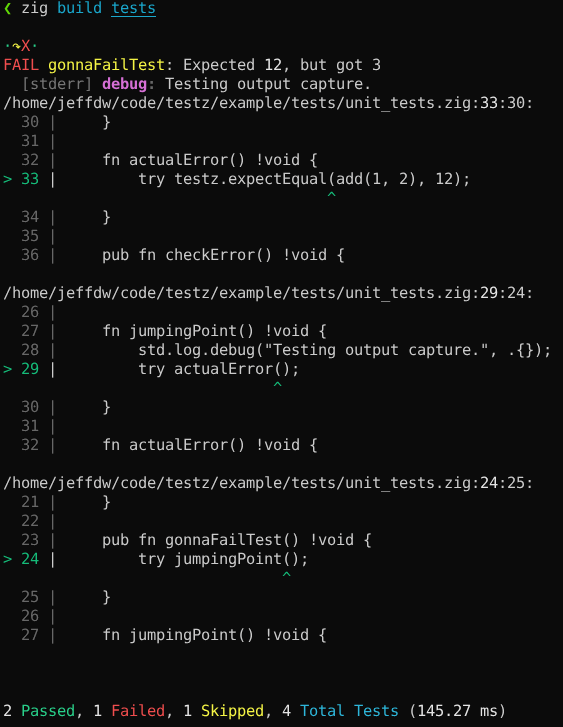
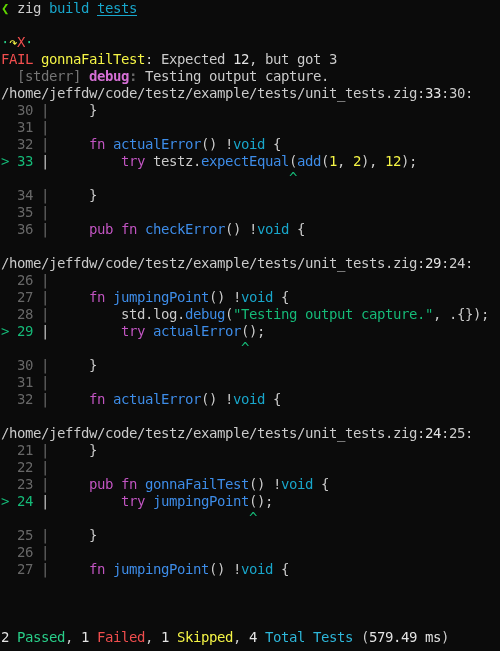
Added basic/full test functions and debug allocator for catching leaks. Bumped to v1.4.0

diff --git a/README.md b/README.md
@@ -2,7 +2,7 @@
 ![Testz Logo](images/testz.png)
 
 
-![Version Badge](https://img.shields.io/badge/Version-1.3.0-brightgreen)
+![Version Badge](https://img.shields.io/badge/Version-1.4.0-brightgreen)
 ![Zig Version Badge](https://img.shields.io/badge/Zig%20Version-0.16.0-%23f7a41d?logo=zig)
 ![License Badge](https://img.shields.io/badge/License-MIT-blue)
 
@@ -31,10 +31,12 @@ Testz is a testing library for zig that provides some extra features compared to
 - Stack traces of relevant code only
   - Skips stack frames from `testz` itself as well as `main` where the test runner is called.
   - Stack traces provide context lines around the stack frame.
+  - Uses tree-sitter to add highlighting to zig code
 
 - Per-test stdout/stderr capture, shown alongside failure output so diagnostic prints don't get lost in the overall run.
+    - Note: doesn't work on Windows properly.
 
-Testz runners are just another executable you setup in your `build.zig`, with the library providing a number of helpers to make it as easy as possible to create tests.  Debugging is simple since you can run your debugger just like with any normal flat executable and use the built in filtering to narrow down what test or set of tests gets run.
+Testz runners are just another executable you setup in your `build.zig`, where the library provides a number of helpers to make it as easy as possible to create tests.  Debugging is simple since you can run your debugger just like with any normal flat executable and use the built in filtering to narrow down what test or set of tests gets run.
 
 # Example
 
@@ -73,6 +75,32 @@ pub fn skip_notReadyYet() !void {
 ```
 
 The test functions are simply any public function in a module you pass into `discoverTests`.  The `testz` library has a number of `expectXYZ` functions you can use to make assertions in your code.  If one fails, `testz` will capture the name of the failed test, error message, and stack trace (with contextual lines).
+
+## Test function signatures
+
+Testz discovers two function signatures automatically:
+
+**Basic** — no parameters, the simplest form:
+
+```zig
+pub fn myTest() !void {
+    try testz.expectEqual(1 + 1, 2);
+}
+```
+
+**Full** — receives `std.Io` and `std.mem.Allocator`:
+
+```zig
+pub fn myAllocatingTest(io: std.Io, alloc: std.mem.Allocator) !void {
+    const buf = try alloc.alloc(u8, 64);
+    defer alloc.free(buf);
+    try testz.expectEqual(buf.len, 64);
+}
+```
+
+Full tests are useful when the code under test needs an allocator or I/O.  Testz passes a `DebugAllocator`-backed allocator, so memory leak detection is automatic: if the test body passes but leaks memory, the test is still recorded as a failure.
+
+Both forms are discovered side-by-side in the same module — there is no configuration needed to mix them.
 
 ## Expect / assertion functions
 
